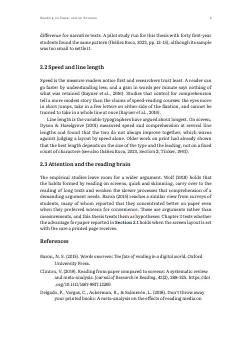
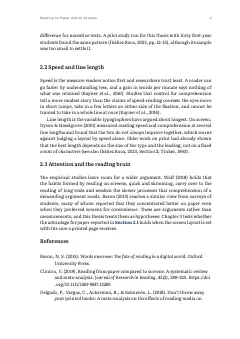
content(cookbook): Nº 087 apa-thesis-with-bibtex: reword the line-length sentence so no line stretches past 2x, PDF recaptured, pinned to 1.57.0 (refs #1204)

Changed region(s): [[0.175, 0.354, 0.875, 0.413]]

diff --git a/cookbook/apa-thesis-with-bibtex/script.js b/cookbook/apa-thesis-with-bibtex/script.js
@@ -1,7 +1,7 @@
 // ═══ Postext Cookbook · Nº 087 · A thesis chapter cited in APA 7 ═══════════════════
 // https://postext.dev/en/cookbook/apa-thesis-with-bibtex
 // Code: MIT · Text: original (CC BY 4.0) · Pictures: none
-// Fonts: Literata, Public Sans (SIL OFL 1.1) · Needs postext ≥ 1.25.0
+// Fonts: Literata, Public Sans (SIL OFL 1.1) · Needs postext ≥ 1.57.0
 import {
   buildDocumentWithFonts, renderPageToCanvas, registerCitationEngine,
 } from 'https://esm.sh/postext';

diff --git a/cookbook/apa-thesis-with-bibtex/content.en.md b/cookbook/apa-thesis-with-bibtex/content.en.md
@@ -19,7 +19,7 @@ Two meta-analyses later pooled the evidence. @delgado2018 combined 54 studies wi
 
 Speed is the measure readers notice first and researchers trust least. A reader can go faster by understanding less, and a gain in words per minute says nothing of what was retained [@rayner2016]. Studies that control for comprehension tell a more modest story than the claims of speed-reading courses: the eyes move in short jumps, take in a few letters on either side of the fixation, and cannot be trained to take in a whole line at once [@rayner2016].
 
-Line length is the variable typographers have argued about longest. On screen, @dyson2001 measured speed and comprehension at several line lengths and found that the two do not always improve together, which warns against judging a layout by speed alone. Older work on print had already shown that the best length depends on the size of the type and the leading, not on a fixed count of characters [@tinker1963; see also @ibanez2023, sec. 2].
+Line length is the variable typographers have argued about longest. On screen, @dyson2001 measured reading speed and comprehension at several line lengths and found that the two do not always improve together, which warns against judging a layout by speed alone. Older work on print had already shown that the best length depends on the size of the type and the leading, not on a fixed count of characters [@tinker1963; see also @ibanez2023, sec. 2].
 
 ## Attention and the reading brain {#sec-attention}
 
